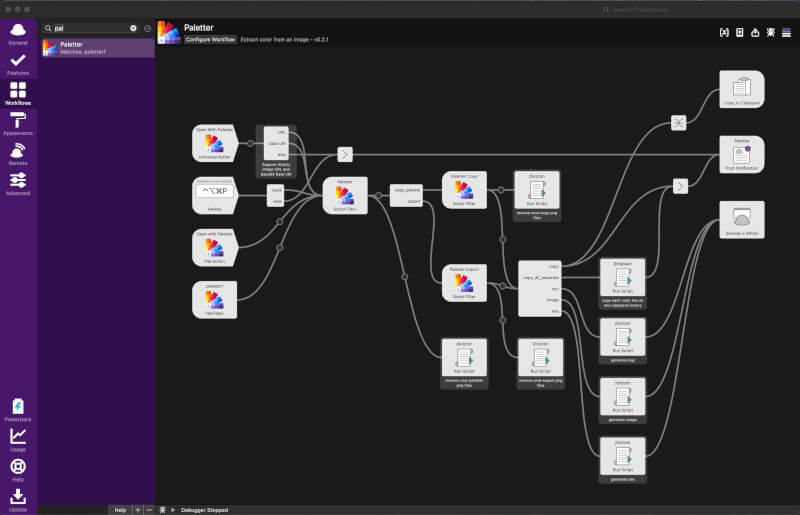
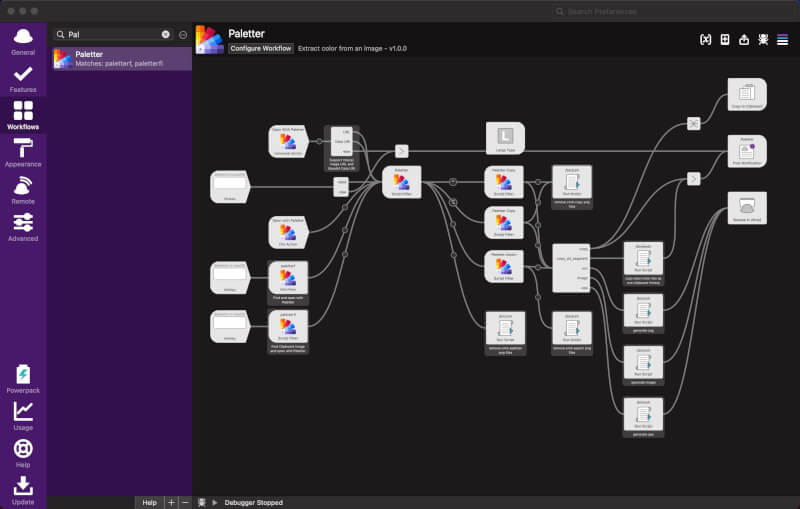
update REAME.md workflow configure for release

Changed region(s): [[0.0, 0.0, 1.0, 1.0], [0.5, 0.5894, 0.5312, 0.6483]]

diff --git a/README.md b/README.md
@@ -24,6 +24,7 @@ Extract color palette from an image
 - Copy palette (`⌥ + Enter` Single / `^ + Enter` Multiple) to clipboard
   - `RGB` ,`HEX` ,`CMYK` ,`HSL` ,`HSV` ,`HWB` ,`LAB` ,`XYZ` ,`HCG`
   - Multiple palette mode copy color separated by (`⌥ + Enter`)
+- Extract color from Clipboard Images
 
 ## Download
 Make sure to download the latest released directly from the releases page. [Download here](https://github.com/cage1016/alfred-paletter/releases).
@@ -42,6 +43,9 @@ Make sure to download the latest released directly from the releases page. [Down
 - Hokey
 - Universal Action with Base64 Image Data URI and image URL
 
+### Extract Color from Clipboard Images
+
+![](screenshots/paletterfi.gif)
 
 ### Copy Single Color
 
@@ -158,6 +162,10 @@ $gradient-radial: radial-gradient(#95d6faff, #65befaff, #9facb5ff, #4186c1ff, #7
 - [Baldomo/paletter: CLI app and library to extract a color palette from an image through clustering](https://github.com/Baldomo/paletter)
 
 ## Change Log
+
+### 1.1.0
+- Add Extract color from Clipboard Images
+- Fixed workflow crash
 
 ### 1.0.0
 - add export features (Code / CSS / ASE / Image with `RGB` ,`HEX` ,`CMYK` ,`HSL` ,`HSV` ,`HWB` ,`LAB` ,`XYZ` ,`HCG`) 
